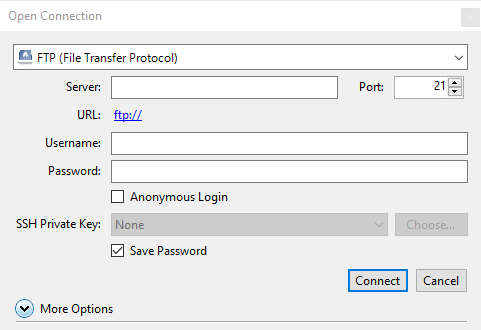
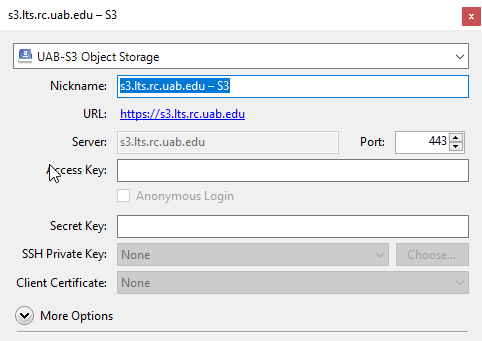
edit/finish Cyberduck and add a profile for easier setup. Start rclone section

diff --git a/docs/data_management/s3.md b/docs/data_management/s3.md
@@ -11,7 +11,7 @@ UAB Long-term storage (LTS) is an S3 object-storage platform hosted at UAB. This
 
 ## Requesting an Account
 
-UAB users do not have automatic access to LTS, and currently, single sign on is not enabled. To request access to LTS, please send an email to [support@listserv.uab.edu](support@listserv.uab.edu). You will be then be given an Access Key and a Secret Access Key, both of which will be used later on. Keep track of both of these keys and do not share them with anyone else, these are your login credentials for LTS.
+UAB researchers do not have automatic access to LTS, and currently, single sign on is not enabled. To request access to LTS, please send an email to [support@listserv.uab.edu](support@listserv.uab.edu). You will be then be given an Access Key and a Secret Access Key, both of which will be used later on. Keep track of both of these keys and do not share them with anyone else, these are your login credentials for LTS.
 
 ## Windows/Mac
 
@@ -23,25 +23,64 @@ Once you have it installed and open, Cyberduck will look like this:
 
 ### Creating a Connection
 
-In order to create a connection with UAB LTS, click the Open Connection button at the top left. The connection dialogue will look like:
+First, download the [UAB CyberDuck Connection Profile](UAB S3 Object Storage.cyberduckprofile). After it's downloaded, double click the file to open it in Cyberduck. It will open the following connection creation window:
 
-![!Cyberduck open connection dialogue ><](images/cyberduck-open-connection.png)
+![!Cyberduck UAB Connection Creation ><](images/cyberduck-open-connection.png)
 
-From here, use the following options:
-
-1. Connection dropdown menu: `Amazon S3`.
-2. Server: `s3.lts.rc.uab.edu`
-3. Port: fine to leave as default `443`.
-4. Set the Access Key and Secret Access Key fields to those sent to you after your account is created.
-
-From here, you can click `Connect` at the bottom of the window.
+Input your Access Key and Secret Access Key sent to you by Research Computing after account creation in their appropriate fields. Once you've entered these keys you can close the connection creation window. This connection with the keys you entered is now saved as a bookmark for easy access in the future. Double click the created bookmark to open the connection to LTS.
 
 ### Creating a Bucket
 
-Sets of storage objects are stored in what are called buckets. For example, you could create a bucket that stores all of the data you would like to move off of Cheaha project space.
+Sets of storage objects are stored in what are called buckets. Buckets are sets of file systems for storing data. You can create different buckets for various purposes, such as separating buckets by dataset or project, or having a single bucket for all data you are moving off of Cheaha project storage.
 
-In order to create a bucket, click File > New Folder... and then name the bucket you would like to create. Once the bucket is created, it will appear in the File window. An example could look like:
+In order to create a bucket, click `File > New Folder...` and then name the bucket you would like to create. Once the bucket is created, it will appear in the File window. An example could look like:
 
 ![!Example bucket creation](images/cyberduck-create-bucket.png)
+
+The bucket will have the symbol of a hard disk with an Amazon A brand on it. This is the root of the file system for that bucket. You can then double click into it to open that file system.
+
+### Uploading and Downloading Data
+
+Once you're inside the bucket, files can be uploaded easily through dragging and dropping from your local machine into the GUI. You can also use the `Upload` button in the toolbar to open a file browser and choose what to upload.
+
+Downloading files from the bucket can be done by first selecting the file(s)/folder(s) to download and then clicking the `Actions` button in the toolbar. In that dropdown will be a `Download` option. You can also get to this dropdown through the `File` menu or by right-clicking.
+
+<!-- markdownlint-disable MD046-->
+!!! note
+
+   By default, all buckets and files you upload are only available to you.Currently, there is not a known method to add permissions for individual researchers in the Cyberduck interface. If you need to add access to a bucket or set of files within a bucket, please look in the Linux guide below. If you do not have access to a personal Linux machine, Cheaha is available to use for this purpose.
+<!-- markdownlint-enable MD046-->
+
+### Alternative Interfaces
+
+In addition to Cyberduck, there are other GUI based programs for interfacing with UAB LTS. [S3 Browser](https://s3browser.com/) is an easy-to-use program for uploading and downloading files. However more sophisticated tools, such as setting file permissions, are hidden behind a paywall. This tool is also only available on Windows platforms. researchers can investigate this tool if desired, however research computing will not provide direct support for this program.
+
+## Linux/Command Line
+
+Linux has very few workable GUIs capable of accessing S3 storage for free available, and so almost all tools for transferring from Cheaha to LTS will be command line interfaces (CLI). The positives for this are that CLIs offer a much broader range of function available to researchers for managing their LTS buckets.
+
+### Different CLIs
+
+There are a couple of different CLIs available to researchers on Cheaha to use. These are [rclone](https://rclone.org/) and [s3cmd](https://s3tools.org/s3cmd). This documentation will show how to perform each function using both tools where possible and will give a comparison chart contrasting what each tool is useful for.
+
+<!-- markdownlint-disable MD046 -->
+!!! note
+
+   Of note, both rclone and s3cmd are available for Windows and Mac as well if you are comfortable using command line interfaces on those platforms. There are installation instructions for both of these tools on their respective websites.
+<!-- markdownlint-enable MD046 -->
+
+### rclone
+
+#### Configuration
+
+<!-- markdownlint-disable MD046 -->
+!!! note
+
+   The installation instructions were tested on Cheaha's Linux platform. Installation for Mac and Windows systems will be different and not covered here.
+<!-- markdownlint-enable MD046 -->
+
+Before accessing the storage system, rclone needs to be installed and configured. Go to the [rclone downloads](https://rclone.org/downloads/) page and download the Linux Intel/AMD - 64 Bit package. Extract the package and then move the rclone application file to the `$HOME/bin` directory. You will have access to the `rclone` command in the terminal at any point now.
+
+From here, rclone will need to be configured. This involves setting up the connection to the remote server. Open a terminal and enter `rclone config` to begin the configuration process.
 
 
